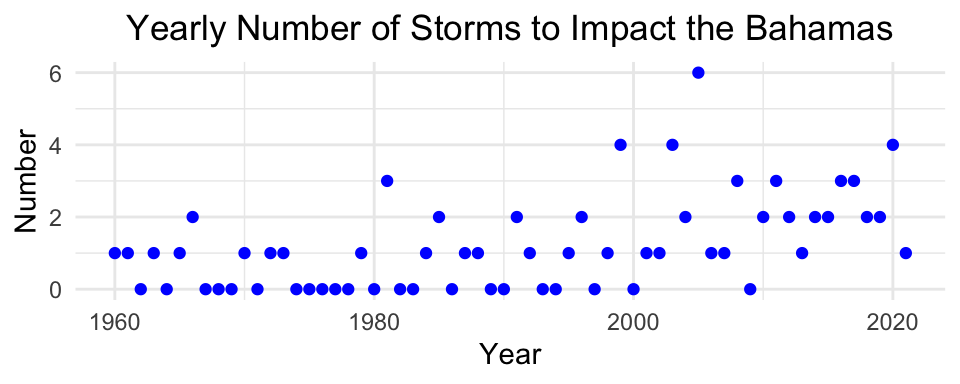
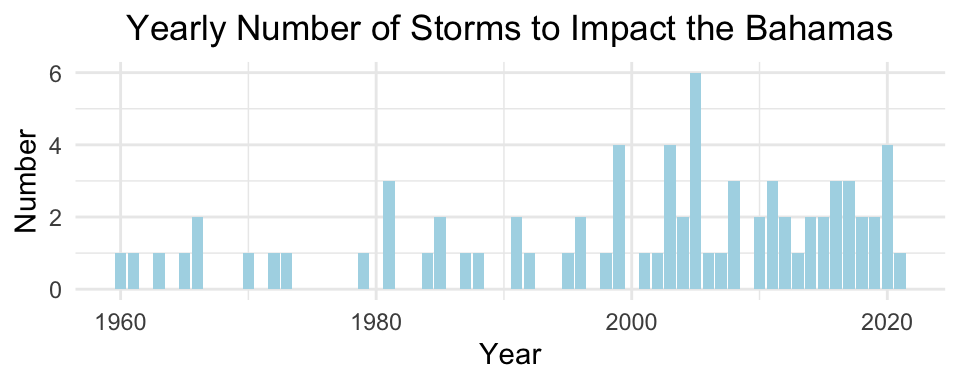
edited my graph

diff --git a/docs/posts/2021-11-24-hurricanes-and-gdp-growth-in-the-bahamas/index.html b/docs/posts/2021-11-24-hurricanes-and-gdp-growth-in-the-bahamas/index.html
@@ -89,7 +89,7 @@ code span.wa { color: #5e5e5e; font-style: italic; } /* Warning */
   <!--radix_placeholder_meta_tags-->
 <title>Paloma Cartwright: Hurricanes and GDP Growth in The Bahamas</title>
 
-<meta property="description" itemprop="description" content="EDS 222 Final Project: Exploring the statistical relationship between Hurricanes and the Annual Percentage of   GDP Growth in The Bahamas."/>
+<meta property="description" itemprop="description" content="EDS 222 Final Project: Exploring the statistical relationship between Hurricanes and the Annual Percentage of GDP Growth in The Bahamas."/>
 
 <link rel="canonical" href="palomacartwright.github.io/posts/2021-11-24-hurricanes-and-gdp-growth-in-the-bahamas/"/>
 
@@ -101,7 +101,7 @@ code span.wa { color: #5e5e5e; font-style: italic; } /* Warning */
 <!--  https://developers.facebook.com/docs/sharing/webmasters#markup -->
 <meta property="og:title" content="Paloma Cartwright: Hurricanes and GDP Growth in The Bahamas"/>
 <meta property="og:type" content="article"/>
-<meta property="og:description" content="EDS 222 Final Project: Exploring the statistical relationship between Hurricanes and the Annual Percentage of   GDP Growth in The Bahamas."/>
+<meta property="og:description" content="EDS 222 Final Project: Exploring the statistical relationship between Hurricanes and the Annual Percentage of GDP Growth in The Bahamas."/>
 <meta property="og:url" content="palomacartwright.github.io/posts/2021-11-24-hurricanes-and-gdp-growth-in-the-bahamas/"/>
 <meta property="og:image" content="palomacartwright.github.io/posts/2021-11-24-hurricanes-and-gdp-growth-in-the-bahamas/hurricanes-and-gdp-growth-in-the-bahamas_files/figure-html5/unnamed-chunk-2-1.png"/>
 <meta property="og:image:width" content="960"/>
@@ -112,7 +112,7 @@ code span.wa { color: #5e5e5e; font-style: italic; } /* Warning */
 <!--  https://dev.twitter.com/cards/types/summary -->
 <meta property="twitter:card" content="summary_large_image"/>
 <meta property="twitter:title" content="Paloma Cartwright: Hurricanes and GDP Growth in The Bahamas"/>
-<meta property="twitter:description" content="EDS 222 Final Project: Exploring the statistical relationship between Hurricanes and the Annual Percentage of   GDP Growth in The Bahamas."/>
+<meta property="twitter:description" content="EDS 222 Final Project: Exploring the statistical relationship between Hurricanes and the Annual Percentage of GDP Growth in The Bahamas."/>
 <meta property="twitter:url" content="palomacartwright.github.io/posts/2021-11-24-hurricanes-and-gdp-growth-in-the-bahamas/"/>
 <meta property="twitter:image" content="palomacartwright.github.io/posts/2021-11-24-hurricanes-and-gdp-growth-in-the-bahamas/hurricanes-and-gdp-growth-in-the-bahamas_files/figure-html5/unnamed-chunk-2-1.png"/>
 <meta property="twitter:image:width" content="960"/>
@@ -128,12 +128,12 @@ code span.wa { color: #5e5e5e; font-style: italic; } /* Warning */
   <!--radix_placeholder_rmarkdown_metadata-->
 
 <script type="text/json" id="radix-rmarkdown-metadata">
-{"type":"list","attributes":{"names":{"type":"character","attributes":{},"value":["title","author","date","output","header-includes","categories","description","citation_url","canonical_url"]}},"value":[{"type":"character","attributes":{},"value":["Hurricanes and GDP Growth in The Bahamas"]},{"type":"list","attributes":{},"value":[{"type":"list","attributes":{"names":{"type":"character","attributes":{},"value":["name"]}},"value":[{"type":"character","attributes":{},"value":["Paloma Cartwright"]}]}]},{"type":"character","attributes":{},"value":["2021-12-2"]},{"type":"list","attributes":{"names":{"type":"character","attributes":{},"value":["distill::distill_article","html_document","pdf_document"]}},"value":[{"type":"list","attributes":{"names":{"type":"character","attributes":{},"value":["toc","code_folding","self_contained"]}},"value":[{"type":"logical","attributes":{},"value":[true]},{"type":"logical","attributes":{},"value":[true]},{"type":"logical","attributes":{},"value":[false]}]},{"type":"list","attributes":{"names":{"type":"character","attributes":{},"value":["toc","df_print"]}},"value":[{"type":"logical","attributes":{},"value":[true]},{"type":"character","attributes":{},"value":["paged"]}]},{"type":"list","attributes":{"names":{"type":"character","attributes":{},"value":["fig_caption"]}},"value":[{"type":"logical","attributes":{},"value":[true]}]}]},{"type":"character","attributes":{},"value":["\\usepackage{float} \\floatplacement{figure}{H}"]},{"type":"character","attributes":{},"value":["R","statistics","tidyverse","kable"]},{"type":"character","attributes":{},"value":["EDS 222 Final Project: Exploring the statistical relationship between Hurricanes and the Annual Percentage of   GDP Growth in The Bahamas."]},{"type":"character","attributes":{},"value":["palomacartwright.github.io/posts/2021-11-24-hurricanes-and-gdp-growth-in-the-bahamas/"]},{"type":"character","attributes":{},"value":["palomacartwright.github.io/posts/2021-11-24-hurricanes-and-gdp-growth-in-the-bahamas/"]}]}
+{"type":"list","attributes":{"names":{"type":"character","attributes":{},"value":["title","author","date","output","header-includes","categories","description","citation_url","canonical_url"]}},"value":[{"type":"character","attributes":{},"value":["Hurricanes and GDP Growth in The Bahamas"]},{"type":"list","attributes":{},"value":[{"type":"list","attributes":{"names":{"type":"character","attributes":{},"value":["name"]}},"value":[{"type":"character","attributes":{},"value":["Paloma Cartwright"]}]}]},{"type":"character","attributes":{},"value":["2021-12-2"]},{"type":"list","attributes":{"names":{"type":"character","attributes":{},"value":["distill::distill_article","html_document","pdf_document"]}},"value":[{"type":"list","attributes":{"names":{"type":"character","attributes":{},"value":["toc","code_folding","self_contained"]}},"value":[{"type":"logical","attributes":{},"value":[true]},{"type":"logical","attributes":{},"value":[true]},{"type":"logical","attributes":{},"value":[false]}]},{"type":"list","attributes":{"names":{"type":"character","attributes":{},"value":["toc","df_print"]}},"value":[{"type":"logical","attributes":{},"value":[true]},{"type":"character","attributes":{},"value":["paged"]}]},{"type":"list","attributes":{"names":{"type":"character","attributes":{},"value":["fig_caption"]}},"value":[{"type":"logical","attributes":{},"value":[true]}]}]},{"type":"character","attributes":{},"value":["\\usepackage{float} \\floatplacement{figure}{H}"]},{"type":"character","attributes":{},"value":["R","statistics","tidyverse","kable"]},{"type":"character","attributes":{},"value":["EDS 222 Final Project: Exploring the statistical relationship between Hurricanes and the Annual Percentage of GDP Growth in The Bahamas."]},{"type":"character","attributes":{},"value":["palomacartwright.github.io/posts/2021-11-24-hurricanes-and-gdp-growth-in-the-bahamas/"]},{"type":"character","attributes":{},"value":["palomacartwright.github.io/posts/2021-11-24-hurricanes-and-gdp-growth-in-the-bahamas/"]}]}
 </script>
 <!--/radix_placeholder_rmarkdown_metadata-->
   
   <script type="text/json" id="radix-resource-manifest">
-  {"type":"character","attributes":{},"value":["descriptive.tex","final_proj_data/API_NY.GDP.MKTP.CD_DS2_en_csv_v2_3263806.zip","final_proj_data/API_NY.GDP.MKTP.CD_DS2_en_csv_v2_3263806/API_NY.GDP.MKTP.CD_DS2_en_csv_v2_3263806.csv","final_proj_data/API_NY.GDP.MKTP.CD_DS2_en_csv_v2_3263806/Metadata_Country_API_NY.GDP.MKTP.CD_DS2_en_csv_v2_3263806.csv","final_proj_data/API_NY.GDP.MKTP.CD_DS2_en_csv_v2_3263806/Metadata_Indicator_API_NY.GDP.MKTP.CD_DS2_en_csv_v2_3263806.csv","final_proj_data/API_NY.GDP.MKTP.KD.ZG_DS2_en_csv_v2_3158928.zip","final_proj_data/API_NY.GDP.MKTP.KD.ZG_DS2_en_csv_v2_3158928/API_NY.GDP.MKTP.KD.ZG_DS2_en_csv_v2_3158928.csv","final_proj_data/API_NY.GDP.MKTP.KD.ZG_DS2_en_csv_v2_3158928/Metadata_Country_API_NY.GDP.MKTP.KD.ZG_DS2_en_csv_v2_3158928.csv","final_proj_data/API_NY.GDP.MKTP.KD.ZG_DS2_en_csv_v2_3158928/Metadata_Indicator_API_NY.GDP.MKTP.KD.ZG_DS2_en_csv_v2_3158928.csv","final_proj_data/bah_yearly_gdp_growth.csv","final_proj_data/Bah_yearly_gdp.csv","final_proj_data/bahamas_hurricanes.csv","hurricanes-and-gdp-growth-in-the-bahamas_files/anchor-4.2.2/anchor.min.js","hurricanes-and-gdp-growth-in-the-bahamas_files/bowser-1.9.3/bowser.min.js","hurricanes-and-gdp-growth-in-the-bahamas_files/crosstalk-1.1.1/css/crosstalk.css","hurricanes-and-gdp-growth-in-the-bahamas_files/crosstalk-1.1.1/js/crosstalk.js","hurricanes-and-gdp-growth-in-the-bahamas_files/crosstalk-1.1.1/js/crosstalk.js.map","hurricanes-and-gdp-growth-in-the-bahamas_files/crosstalk-1.1.1/js/crosstalk.min.js","hurricanes-and-gdp-growth-in-the-bahamas_files/crosstalk-1.1.1/js/crosstalk.min.js.map","hurricanes-and-gdp-growth-in-the-bahamas_files/distill-2.2.21/template.v2.js","hurricanes-and-gdp-growth-in-the-bahamas_files/figure-html5/unnamed-chunk-2-1.png","hurricanes-and-gdp-growth-in-the-bahamas_files/figure-html5/unnamed-chunk-3-1.png","hurricanes-and-gdp-growth-in-the-bahamas_files/figure-html5/unnamed-chunk-5-1.png","hurricanes-and-gdp-growth-in-the-bahamas_files/figure-html5/unnamed-chunk-6-1.png","hurricanes-and-gdp-growth-in-the-bahamas_files/figure-html5/unnamed-chunk-7-1.png","hurricanes-and-gdp-growth-in-the-bahamas_files/figure-html5/unnamed-chunk-8-1.png","hurricanes-and-gdp-growth-in-the-bahamas_files/header-attrs-2.11/header-attrs.js","hurricanes-and-gdp-growth-in-the-bahamas_files/htmlwidgets-1.5.4/htmlwidgets.js","hurricanes-and-gdp-growth-in-the-bahamas_files/jquery-3.6.0/jquery-3.6.0.js","hurricanes-and-gdp-growth-in-the-bahamas_files/jquery-3.6.0/jquery-3.6.0.min.js","hurricanes-and-gdp-growth-in-the-bahamas_files/jquery-3.6.0/jquery-3.6.0.min.map","hurricanes-and-gdp-growth-in-the-bahamas_files/kePrint-0.0.1/kePrint.js","hurricanes-and-gdp-growth-in-the-bahamas_files/lightable-0.0.1/lightable.css","hurricanes-and-gdp-growth-in-the-bahamas_files/plotly-binding-4.10.0/plotly.js","hurricanes-and-gdp-growth-in-the-bahamas_files/plotly-htmlwidgets-css-2.5.1/plotly-htmlwidgets.css","hurricanes-and-gdp-growth-in-the-bahamas_files/plotly-main-2.5.1/plotly-latest.min.js","hurricanes-and-gdp-growth-in-the-bahamas_files/popper-2.6.0/popper.min.js","hurricanes-and-gdp-growth-in-the-bahamas_files/tippy-6.2.7/tippy-bundle.umd.min.js","hurricanes-and-gdp-growth-in-the-bahamas_files/tippy-6.2.7/tippy-light-border.css","hurricanes-and-gdp-growth-in-the-bahamas_files/tippy-6.2.7/tippy.css","hurricanes-and-gdp-growth-in-the-bahamas_files/tippy-6.2.7/tippy.umd.min.js","hurricanes-and-gdp-growth-in-the-bahamas_files/typedarray-0.1/typedarray.min.js","hurricanes-and-gdp-growth-in-the-bahamas_files/webcomponents-2.0.0/webcomponents.js","hurricanes-and-gdp-growth-in-the-bahamas.pdf"]}
+  {"type":"character","attributes":{},"value":["descriptive.tex","final_proj_data/API_NY.GDP.MKTP.CD_DS2_en_csv_v2_3263806.zip","final_proj_data/API_NY.GDP.MKTP.CD_DS2_en_csv_v2_3263806/API_NY.GDP.MKTP.CD_DS2_en_csv_v2_3263806.csv","final_proj_data/API_NY.GDP.MKTP.CD_DS2_en_csv_v2_3263806/Metadata_Country_API_NY.GDP.MKTP.CD_DS2_en_csv_v2_3263806.csv","final_proj_data/API_NY.GDP.MKTP.CD_DS2_en_csv_v2_3263806/Metadata_Indicator_API_NY.GDP.MKTP.CD_DS2_en_csv_v2_3263806.csv","final_proj_data/API_NY.GDP.MKTP.KD.ZG_DS2_en_csv_v2_3158928.zip","final_proj_data/API_NY.GDP.MKTP.KD.ZG_DS2_en_csv_v2_3158928/API_NY.GDP.MKTP.KD.ZG_DS2_en_csv_v2_3158928.csv","final_proj_data/API_NY.GDP.MKTP.KD.ZG_DS2_en_csv_v2_3158928/Metadata_Country_API_NY.GDP.MKTP.KD.ZG_DS2_en_csv_v2_3158928.csv","final_proj_data/API_NY.GDP.MKTP.KD.ZG_DS2_en_csv_v2_3158928/Metadata_Indicator_API_NY.GDP.MKTP.KD.ZG_DS2_en_csv_v2_3158928.csv","final_proj_data/bah_yearly_gdp_growth.csv","final_proj_data/Bah_yearly_gdp.csv","final_proj_data/bahamas_hurricanes.csv","hurricanes-and-gdp-growth-in-the-bahamas_files/anchor-4.2.2/anchor.min.js","hurricanes-and-gdp-growth-in-the-bahamas_files/bowser-1.9.3/bowser.min.js","hurricanes-and-gdp-growth-in-the-bahamas_files/crosstalk-1.1.1/css/crosstalk.css","hurricanes-and-gdp-growth-in-the-bahamas_files/crosstalk-1.1.1/js/crosstalk.js","hurricanes-and-gdp-growth-in-the-bahamas_files/crosstalk-1.1.1/js/crosstalk.js.map","hurricanes-and-gdp-growth-in-the-bahamas_files/crosstalk-1.1.1/js/crosstalk.min.js","hurricanes-and-gdp-growth-in-the-bahamas_files/crosstalk-1.1.1/js/crosstalk.min.js.map","hurricanes-and-gdp-growth-in-the-bahamas_files/distill-2.2.21/template.v2.js","hurricanes-and-gdp-growth-in-the-bahamas_files/figure-html5/unnamed-chunk-2-1.png","hurricanes-and-gdp-growth-in-the-bahamas_files/figure-html5/unnamed-chunk-3-1.png","hurricanes-and-gdp-growth-in-the-bahamas_files/figure-html5/unnamed-chunk-5-1.png","hurricanes-and-gdp-growth-in-the-bahamas_files/figure-html5/unnamed-chunk-6-1.png","hurricanes-and-gdp-growth-in-the-bahamas_files/figure-html5/unnamed-chunk-7-1.png","hurricanes-and-gdp-growth-in-the-bahamas_files/figure-html5/unnamed-chunk-8-1.png","hurricanes-and-gdp-growth-in-the-bahamas_files/header-attrs-2.11/header-attrs.js","hurricanes-and-gdp-growth-in-the-bahamas_files/htmlwidgets-1.5.4/htmlwidgets.js","hurricanes-and-gdp-growth-in-the-bahamas_files/jquery-3.6.0/jquery-3.6.0.js","hurricanes-and-gdp-growth-in-the-bahamas_files/jquery-3.6.0/jquery-3.6.0.min.js","hurricanes-and-gdp-growth-in-the-bahamas_files/jquery-3.6.0/jquery-3.6.0.min.map","hurricanes-and-gdp-growth-in-the-bahamas_files/kePrint-0.0.1/kePrint.js","hurricanes-and-gdp-growth-in-the-bahamas_files/lightable-0.0.1/lightable.css","hurricanes-and-gdp-growth-in-the-bahamas_files/plotly-binding-4.10.0/plotly.js","hurricanes-and-gdp-growth-in-the-bahamas_files/plotly-htmlwidgets-css-2.5.1/plotly-htmlwidgets.css","hurricanes-and-gdp-growth-in-the-bahamas_files/plotly-main-2.5.1/plotly-latest.min.js","hurricanes-and-gdp-growth-in-the-bahamas_files/popper-2.6.0/popper.min.js","hurricanes-and-gdp-growth-in-the-bahamas_files/tippy-6.2.7/tippy-bundle.umd.min.js","hurricanes-and-gdp-growth-in-the-bahamas_files/tippy-6.2.7/tippy-light-border.css","hurricanes-and-gdp-growth-in-the-bahamas_files/tippy-6.2.7/tippy.css","hurricanes-and-gdp-growth-in-the-bahamas_files/tippy-6.2.7/tippy.umd.min.js","hurricanes-and-gdp-growth-in-the-bahamas_files/typedarray-0.1/typedarray.min.js","hurricanes-and-gdp-growth-in-the-bahamas_files/webcomponents-2.0.0/webcomponents.js","hurricanes-and-gdp-growth-in-the-bahamas.pdf","yearly_storms.jpg"]}
   </script>
   <!--radix_placeholder_navigation_in_header-->
 <meta name="distill:offset" content="../.."/>
@@ -2456,7 +2456,7 @@ d-appendix d-footnote-list a.footnote-backlink {
 <!--radix_placeholder_front_matter-->
 
 <script id="distill-front-matter" type="text/json">
-{"title":"Hurricanes and GDP Growth in The Bahamas","description":"EDS 222 Final Project: Exploring the statistical relationship between Hurricanes and the Annual Percentage of   GDP Growth in The Bahamas.","authors":[{"author":"Paloma Cartwright","authorURL":"#","affiliation":"&nbsp;","affiliationURL":"#","orcidID":""}],"publishedDate":"2021-12-02T00:00:00.000-08:00","citationText":"Cartwright, 2021"}
+{"title":"Hurricanes and GDP Growth in The Bahamas","description":"EDS 222 Final Project: Exploring the statistical relationship between Hurricanes and the Annual Percentage of GDP Growth in The Bahamas.","authors":[{"author":"Paloma Cartwright","authorURL":"#","affiliation":"&nbsp;","affiliationURL":"#","orcidID":""}],"publishedDate":"2021-12-02T00:00:00.000-08:00","citationText":"Cartwright, 2021"}
 </script>
 
 <!--/radix_placeholder_front_matter-->
@@ -2534,7 +2534,7 @@ d-appendix d-footnote-list a.footnote-backlink {
 <p>The aim of this project is to investigate the impact of hurricanes on the annual percentage of GDP growth in The Bahamas. Growing up in The Bahamas, I have witnessed first hand the devastating impacts of hurricanes on livelihoods throughout the country and have been an active participant in recovery efforts every time my island was struck. Natural disasters have massive economic costs and take a deep toll on growth prospects because reconstruction costs monopolize already scarce resources for health, education, and social spending, especially in developing countries (Ötker &amp; Srinivasan, 2018). There is existing research on the impact of hurricanes on GDP growth in the United States but this project will look specifically at The Bahamas. With the global changing climate and the continual impact of stronger hurricanes on Caribbean countries, answering this question can have important implications for the future of small island developing states like The Bahamas.</p>
 <h1 id="data-collection-and-tidying">Data Collection and Tidying</h1>
 <h2 id="gdp-growth-data">GDP Growth Data</h2>
-<p>The data for annual percentage of GDP Growth was collected from The World Bank Data Repository (World Bank, 2021). This data covers annual percentage of GDP growth from 1961 to present for The Bahamas. The metadata containing information about calculations and sampling strategy can be found <a href="https://databank.worldbank.org/reports.aspx?source=2&amp;type=metadata&amp;series=NY.GDP.MKTP.KD.ZG">here</a>.</p>
+<p>The data for annual percentage of GDP Growth was collected from The World Bank Open Data Repository (World Bank, 2021). This data covers annual percentage of GDP growth from 1961 to present for The Bahamas. The metadata containing information about calculations and sampling strategy can be found <a href="https://databank.worldbank.org/reports.aspx?source=2&amp;type=metadata&amp;series=NY.GDP.MKTP.KD.ZG">here</a>.</p>
 <div class="layout-chunk" data-layout="l-body">
 <details>
 <summary>
@@ -2599,7 +2599,7 @@ Show code
   <span class='fu'>arrange</span><span class='op'>(</span><span class='va'>year</span><span class='op'>)</span>
 
 <span class='va'>yearly</span> <span class='op'>&lt;-</span> <span class='fu'>ggplot</span><span class='op'>(</span>data <span class='op'>=</span> <span class='va'>yr_storms</span>, <span class='fu'>aes</span><span class='op'>(</span>x <span class='op'>=</span> <span class='va'>year</span>, y <span class='op'>=</span> <span class='va'>number</span><span class='op'>)</span><span class='op'>)</span> <span class='op'>+</span>
-  <span class='fu'>geom_point</span><span class='op'>(</span>color <span class='op'>=</span> <span class='st'>"blue"</span><span class='op'>)</span> <span class='op'>+</span> 
+  <span class='fu'>geom_col</span><span class='op'>(</span>fill <span class='op'>=</span> <span class='st'>"lightblue"</span><span class='op'>)</span> <span class='op'>+</span> 
   <span class='fu'>labs</span><span class='op'>(</span>x <span class='op'>=</span> <span class='st'>"Year"</span>, 
        y <span class='op'>=</span> <span class='st'>"Number"</span>, 
        title <span class='op'>=</span> <span class='st'>"Yearly Number of Storms to Impact the Bahamas"</span><span class='op'>)</span> <span class='op'>+</span>
@@ -2616,6 +2616,15 @@ Show code
 Figure 2: The yearly number of storms to impact The Bahamas from 1960-2020 has fluctuated between 0 and 6 storms.
 </p>
 </div>
+<details>
+<summary>
+Show code
+</summary>
+<div class="sourceCode">
+<pre class="sourceCode r"><code class="sourceCode r"><span class='fu'>ggsave</span><span class='op'>(</span><span class='st'>"yearly_storms.jpg"</span>, width <span class='op'>=</span> <span class='fl'>6</span>, height <span class='op'>=</span> <span class='fl'>4</span><span class='op'>)</span>
+</code></pre>
+</div>
+</details>
 </div>
 <div class="layout-chunk" data-layout="l-body">
 <details>
@@ -2757,7 +2766,7 @@ Show code
 <pre class="sourceCode r"><code class="sourceCode r"><span class='va'>gdp</span> <span class='op'>&lt;-</span> <span class='fu'><a href='https://rdrr.io/r/stats/ts.html'>ts</a></span><span class='op'>(</span><span class='va'>hgdp</span><span class='op'>$</span><span class='va'>gdp_growth</span>, start<span class='op'>=</span><span class='fl'>1960</span><span class='op'>)</span>
 <span class='va'>yr0</span><span class='op'>&lt;-</span><span class='fu'><a href='https://rdrr.io/r/stats/ts.html'>ts</a></span><span class='op'>(</span><span class='va'>hgdp</span><span class='op'>$</span><span class='va'>num_yr0</span>,start<span class='op'>=</span><span class='fl'>1960</span><span class='op'>)</span>
 
-<span class='va'>year_lag_mod</span> <span class='op'>&lt;-</span> <span class='fu'><a href='https://rdrr.io/pkg/dynlm/man/dynlm.html'>dynlm</a></span><span class='op'>(</span><span class='va'>gdp</span> <span class='op'>~</span> <span class='fu'>L</span><span class='op'>(</span><span class='va'>yr0</span>, <span class='fl'>0</span><span class='op'>:</span><span class='fl'>2</span><span class='op'>)</span><span class='op'>)</span>
+<span class='va'>year_lag_mod</span> <span class='op'>&lt;-</span> <span class='fu'><a href='https://rdrr.io/pkg/dynlm/man/dynlm.html'>dynlm</a></span><span class='op'>(</span><span class='va'>gdp</span> <span class='op'>~</span> <span class='fu'>L</span><span class='op'>(</span><span class='va'>yr0</span>, <span class='fl'>0</span><span class='op'>)</span> <span class='op'>+</span> <span class='fu'>L</span><span class='op'>(</span><span class='va'>yr0</span>, <span class='fl'>1</span><span class='op'>)</span> <span class='op'>+</span> <span class='fu'>L</span><span class='op'>(</span><span class='va'>yr0</span>, <span class='fl'>2</span><span class='op'>)</span><span class='op'>)</span>
 <span class='va'>year_lag_mod</span> <span class='op'>%&gt;%</span>
   <span class='fu'><a href='https://rdrr.io/r/base/summary.html'>summary</a></span><span class='op'>(</span><span class='op'>)</span> <span class='op'>%&gt;%</span> 
   <span class='fu'><a href='https://rdrr.io/pkg/xtable/man/xtable.html'>xtable</a></span><span class='op'>(</span><span class='op'>)</span> <span class='op'>%&gt;%</span> 
@@ -2809,7 +2818,7 @@ Pr(&gt;|t|)
 </tr>
 <tr>
 <td style="text-align:left;">
-L(yr0, 0:2)zoo(coredata(x), tt).1
+L(yr0, 0)
 </td>
 <td style="text-align:right;">
 -0.724
@@ -2826,7 +2835,7 @@ L(yr0, 0:2)zoo(coredata(x), tt).1
 </tr>
 <tr>
 <td style="text-align:left;">
-L(yr0, 0:2)zoo(coredata(x), tt).2
+L(yr0, 1)
 </td>
 <td style="text-align:right;">
 -0.285
@@ -2843,7 +2852,7 @@ L(yr0, 0:2)zoo(coredata(x), tt).2
 </tr>
 <tr>
 <td style="text-align:left;">
-L(yr0, 0:2)zoo(coredata(x), tt).3
+L(yr0, 2)
 </td>
 <td style="text-align:right;">
 -1.075

diff --git a/_posts/2021-11-24-hurricanes-and-gdp-growth-in-the-bahamas/hurricanes-and-gdp-growth-in-the-bahamas.html b/_posts/2021-11-24-hurricanes-and-gdp-growth-in-the-bahamas/hurricanes-and-gdp-growth-in-the-bahamas.html
@@ -89,7 +89,7 @@ code span.wa { color: #5e5e5e; font-style: italic; } /* Warning */
   <!--radix_placeholder_meta_tags-->
   <title>Hurricanes and GDP Growth in The Bahamas</title>
 
-  <meta property="description" itemprop="description" content="EDS 222 Final Project: Exploring the statistical relationship between Hurricanes and the Annual Percentage of   GDP Growth in The Bahamas."/>
+  <meta property="description" itemprop="description" content="EDS 222 Final Project: Exploring the statistical relationship between Hurricanes and the Annual Percentage of GDP Growth in The Bahamas."/>
 
 
   <!--  https://schema.org/Article -->
@@ -100,24 +100,24 @@ code span.wa { color: #5e5e5e; font-style: italic; } /* Warning */
   <!--  https://developers.facebook.com/docs/sharing/webmasters#markup -->
   <meta property="og:title" content="Hurricanes and GDP Growth in The Bahamas"/>
   <meta property="og:type" content="article"/>
-  <meta property="og:description" content="EDS 222 Final Project: Exploring the statistical relationship between Hurricanes and the Annual Percentage of   GDP Growth in The Bahamas."/>
+  <meta property="og:description" content="EDS 222 Final Project: Exploring the statistical relationship between Hurricanes and the Annual Percentage of GDP Growth in The Bahamas."/>
   <meta property="og:locale" content="en_US"/>
 
   <!--  https://dev.twitter.com/cards/types/summary -->
   <meta property="twitter:card" content="summary"/>
   <meta property="twitter:title" content="Hurricanes and GDP Growth in The Bahamas"/>
-  <meta property="twitter:description" content="EDS 222 Final Project: Exploring the statistical relationship between Hurricanes and the Annual Percentage of   GDP Growth in The Bahamas."/>
+  <meta property="twitter:description" content="EDS 222 Final Project: Exploring the statistical relationship between Hurricanes and the Annual Percentage of GDP Growth in The Bahamas."/>
 
   <!--/radix_placeholder_meta_tags-->
   <!--radix_placeholder_rmarkdown_metadata-->
 
   <script type="text/json" id="radix-rmarkdown-metadata">
-  {"type":"list","attributes":{"names":{"type":"character","attributes":{},"value":["title","author","date","output","header-includes","categories","description"]}},"value":[{"type":"character","attributes":{},"value":["Hurricanes and GDP Growth in The Bahamas"]},{"type":"list","attributes":{},"value":[{"type":"list","attributes":{"names":{"type":"character","attributes":{},"value":["name"]}},"value":[{"type":"character","attributes":{},"value":["Paloma Cartwright"]}]}]},{"type":"character","attributes":{},"value":["2021-12-2"]},{"type":"list","attributes":{"names":{"type":"character","attributes":{},"value":["distill::distill_article","html_document","pdf_document"]}},"value":[{"type":"list","attributes":{"names":{"type":"character","attributes":{},"value":["toc","code_folding","self_contained"]}},"value":[{"type":"logical","attributes":{},"value":[true]},{"type":"logical","attributes":{},"value":[true]},{"type":"logical","attributes":{},"value":[false]}]},{"type":"list","attributes":{"names":{"type":"character","attributes":{},"value":["toc","df_print"]}},"value":[{"type":"logical","attributes":{},"value":[true]},{"type":"character","attributes":{},"value":["paged"]}]},{"type":"list","attributes":{"names":{"type":"character","attributes":{},"value":["fig_caption"]}},"value":[{"type":"logical","attributes":{},"value":[true]}]}]},{"type":"character","attributes":{},"value":["\\usepackage{float} \\floatplacement{figure}{H}"]},{"type":"character","attributes":{},"value":["R","statistics","tidyverse","kable"]},{"type":"character","attributes":{},"value":["EDS 222 Final Project: Exploring the statistical relationship between Hurricanes and the Annual Percentage of   GDP Growth in The Bahamas."]}]}
+  {"type":"list","attributes":{"names":{"type":"character","attributes":{},"value":["title","author","date","output","header-includes","categories","description"]}},"value":[{"type":"character","attributes":{},"value":["Hurricanes and GDP Growth in The Bahamas"]},{"type":"list","attributes":{},"value":[{"type":"list","attributes":{"names":{"type":"character","attributes":{},"value":["name"]}},"value":[{"type":"character","attributes":{},"value":["Paloma Cartwright"]}]}]},{"type":"character","attributes":{},"value":["2021-12-2"]},{"type":"list","attributes":{"names":{"type":"character","attributes":{},"value":["distill::distill_article","html_document","pdf_document"]}},"value":[{"type":"list","attributes":{"names":{"type":"character","attributes":{},"value":["toc","code_folding","self_contained"]}},"value":[{"type":"logical","attributes":{},"value":[true]},{"type":"logical","attributes":{},"value":[true]},{"type":"logical","attributes":{},"value":[false]}]},{"type":"list","attributes":{"names":{"type":"character","attributes":{},"value":["toc","df_print"]}},"value":[{"type":"logical","attributes":{},"value":[true]},{"type":"character","attributes":{},"value":["paged"]}]},{"type":"list","attributes":{"names":{"type":"character","attributes":{},"value":["fig_caption"]}},"value":[{"type":"logical","attributes":{},"value":[true]}]}]},{"type":"character","attributes":{},"value":["\\usepackage{float} \\floatplacement{figure}{H}"]},{"type":"character","attributes":{},"value":["R","statistics","tidyverse","kable"]},{"type":"character","attributes":{},"value":["EDS 222 Final Project: Exploring the statistical relationship between Hurricanes and the Annual Percentage of GDP Growth in The Bahamas."]}]}
   </script>
   <!--/radix_placeholder_rmarkdown_metadata-->
   
   <script type="text/json" id="radix-resource-manifest">
-  {"type":"character","attributes":{},"value":["descriptive.tex","final_proj_data/API_NY.GDP.MKTP.CD_DS2_en_csv_v2_3263806.zip","final_proj_data/API_NY.GDP.MKTP.CD_DS2_en_csv_v2_3263806/API_NY.GDP.MKTP.CD_DS2_en_csv_v2_3263806.csv","final_proj_data/API_NY.GDP.MKTP.CD_DS2_en_csv_v2_3263806/Metadata_Country_API_NY.GDP.MKTP.CD_DS2_en_csv_v2_3263806.csv","final_proj_data/API_NY.GDP.MKTP.CD_DS2_en_csv_v2_3263806/Metadata_Indicator_API_NY.GDP.MKTP.CD_DS2_en_csv_v2_3263806.csv","final_proj_data/API_NY.GDP.MKTP.KD.ZG_DS2_en_csv_v2_3158928.zip","final_proj_data/API_NY.GDP.MKTP.KD.ZG_DS2_en_csv_v2_3158928/API_NY.GDP.MKTP.KD.ZG_DS2_en_csv_v2_3158928.csv","final_proj_data/API_NY.GDP.MKTP.KD.ZG_DS2_en_csv_v2_3158928/Metadata_Country_API_NY.GDP.MKTP.KD.ZG_DS2_en_csv_v2_3158928.csv","final_proj_data/API_NY.GDP.MKTP.KD.ZG_DS2_en_csv_v2_3158928/Metadata_Indicator_API_NY.GDP.MKTP.KD.ZG_DS2_en_csv_v2_3158928.csv","final_proj_data/bah_yearly_gdp_growth.csv","final_proj_data/Bah_yearly_gdp.csv","final_proj_data/bahamas_hurricanes.csv","hurricanes-and-gdp-growth-in-the-bahamas_files/anchor-4.2.2/anchor.min.js","hurricanes-and-gdp-growth-in-the-bahamas_files/bowser-1.9.3/bowser.min.js","hurricanes-and-gdp-growth-in-the-bahamas_files/crosstalk-1.1.1/css/crosstalk.css","hurricanes-and-gdp-growth-in-the-bahamas_files/crosstalk-1.1.1/js/crosstalk.js","hurricanes-and-gdp-growth-in-the-bahamas_files/crosstalk-1.1.1/js/crosstalk.js.map","hurricanes-and-gdp-growth-in-the-bahamas_files/crosstalk-1.1.1/js/crosstalk.min.js","hurricanes-and-gdp-growth-in-the-bahamas_files/crosstalk-1.1.1/js/crosstalk.min.js.map","hurricanes-and-gdp-growth-in-the-bahamas_files/distill-2.2.21/template.v2.js","hurricanes-and-gdp-growth-in-the-bahamas_files/figure-html5/unnamed-chunk-2-1.png","hurricanes-and-gdp-growth-in-the-bahamas_files/figure-html5/unnamed-chunk-3-1.png","hurricanes-and-gdp-growth-in-the-bahamas_files/figure-html5/unnamed-chunk-5-1.png","hurricanes-and-gdp-growth-in-the-bahamas_files/figure-html5/unnamed-chunk-6-1.png","hurricanes-and-gdp-growth-in-the-bahamas_files/figure-html5/unnamed-chunk-7-1.png","hurricanes-and-gdp-growth-in-the-bahamas_files/figure-html5/unnamed-chunk-8-1.png","hurricanes-and-gdp-growth-in-the-bahamas_files/header-attrs-2.11/header-attrs.js","hurricanes-and-gdp-growth-in-the-bahamas_files/htmlwidgets-1.5.4/htmlwidgets.js","hurricanes-and-gdp-growth-in-the-bahamas_files/jquery-3.6.0/jquery-3.6.0.js","hurricanes-and-gdp-growth-in-the-bahamas_files/jquery-3.6.0/jquery-3.6.0.min.js","hurricanes-and-gdp-growth-in-the-bahamas_files/jquery-3.6.0/jquery-3.6.0.min.map","hurricanes-and-gdp-growth-in-the-bahamas_files/kePrint-0.0.1/kePrint.js","hurricanes-and-gdp-growth-in-the-bahamas_files/lightable-0.0.1/lightable.css","hurricanes-and-gdp-growth-in-the-bahamas_files/plotly-binding-4.10.0/plotly.js","hurricanes-and-gdp-growth-in-the-bahamas_files/plotly-htmlwidgets-css-2.5.1/plotly-htmlwidgets.css","hurricanes-and-gdp-growth-in-the-bahamas_files/plotly-main-2.5.1/plotly-latest.min.js","hurricanes-and-gdp-growth-in-the-bahamas_files/popper-2.6.0/popper.min.js","hurricanes-and-gdp-growth-in-the-bahamas_files/tippy-6.2.7/tippy-bundle.umd.min.js","hurricanes-and-gdp-growth-in-the-bahamas_files/tippy-6.2.7/tippy-light-border.css","hurricanes-and-gdp-growth-in-the-bahamas_files/tippy-6.2.7/tippy.css","hurricanes-and-gdp-growth-in-the-bahamas_files/tippy-6.2.7/tippy.umd.min.js","hurricanes-and-gdp-growth-in-the-bahamas_files/typedarray-0.1/typedarray.min.js","hurricanes-and-gdp-growth-in-the-bahamas_files/webcomponents-2.0.0/webcomponents.js","hurricanes-and-gdp-growth-in-the-bahamas.pdf"]}
+  {"type":"character","attributes":{},"value":["descriptive.tex","final_proj_data/API_NY.GDP.MKTP.CD_DS2_en_csv_v2_3263806.zip","final_proj_data/API_NY.GDP.MKTP.CD_DS2_en_csv_v2_3263806/API_NY.GDP.MKTP.CD_DS2_en_csv_v2_3263806.csv","final_proj_data/API_NY.GDP.MKTP.CD_DS2_en_csv_v2_3263806/Metadata_Country_API_NY.GDP.MKTP.CD_DS2_en_csv_v2_3263806.csv","final_proj_data/API_NY.GDP.MKTP.CD_DS2_en_csv_v2_3263806/Metadata_Indicator_API_NY.GDP.MKTP.CD_DS2_en_csv_v2_3263806.csv","final_proj_data/API_NY.GDP.MKTP.KD.ZG_DS2_en_csv_v2_3158928.zip","final_proj_data/API_NY.GDP.MKTP.KD.ZG_DS2_en_csv_v2_3158928/API_NY.GDP.MKTP.KD.ZG_DS2_en_csv_v2_3158928.csv","final_proj_data/API_NY.GDP.MKTP.KD.ZG_DS2_en_csv_v2_3158928/Metadata_Country_API_NY.GDP.MKTP.KD.ZG_DS2_en_csv_v2_3158928.csv","final_proj_data/API_NY.GDP.MKTP.KD.ZG_DS2_en_csv_v2_3158928/Metadata_Indicator_API_NY.GDP.MKTP.KD.ZG_DS2_en_csv_v2_3158928.csv","final_proj_data/bah_yearly_gdp_growth.csv","final_proj_data/Bah_yearly_gdp.csv","final_proj_data/bahamas_hurricanes.csv","hurricanes-and-gdp-growth-in-the-bahamas_files/anchor-4.2.2/anchor.min.js","hurricanes-and-gdp-growth-in-the-bahamas_files/bowser-1.9.3/bowser.min.js","hurricanes-and-gdp-growth-in-the-bahamas_files/crosstalk-1.1.1/css/crosstalk.css","hurricanes-and-gdp-growth-in-the-bahamas_files/crosstalk-1.1.1/js/crosstalk.js","hurricanes-and-gdp-growth-in-the-bahamas_files/crosstalk-1.1.1/js/crosstalk.js.map","hurricanes-and-gdp-growth-in-the-bahamas_files/crosstalk-1.1.1/js/crosstalk.min.js","hurricanes-and-gdp-growth-in-the-bahamas_files/crosstalk-1.1.1/js/crosstalk.min.js.map","hurricanes-and-gdp-growth-in-the-bahamas_files/distill-2.2.21/template.v2.js","hurricanes-and-gdp-growth-in-the-bahamas_files/figure-html5/unnamed-chunk-2-1.png","hurricanes-and-gdp-growth-in-the-bahamas_files/figure-html5/unnamed-chunk-3-1.png","hurricanes-and-gdp-growth-in-the-bahamas_files/figure-html5/unnamed-chunk-5-1.png","hurricanes-and-gdp-growth-in-the-bahamas_files/figure-html5/unnamed-chunk-6-1.png","hurricanes-and-gdp-growth-in-the-bahamas_files/figure-html5/unnamed-chunk-7-1.png","hurricanes-and-gdp-growth-in-the-bahamas_files/figure-html5/unnamed-chunk-8-1.png","hurricanes-and-gdp-growth-in-the-bahamas_files/header-attrs-2.11/header-attrs.js","hurricanes-and-gdp-growth-in-the-bahamas_files/htmlwidgets-1.5.4/htmlwidgets.js","hurricanes-and-gdp-growth-in-the-bahamas_files/jquery-3.6.0/jquery-3.6.0.js","hurricanes-and-gdp-growth-in-the-bahamas_files/jquery-3.6.0/jquery-3.6.0.min.js","hurricanes-and-gdp-growth-in-the-bahamas_files/jquery-3.6.0/jquery-3.6.0.min.map","hurricanes-and-gdp-growth-in-the-bahamas_files/kePrint-0.0.1/kePrint.js","hurricanes-and-gdp-growth-in-the-bahamas_files/lightable-0.0.1/lightable.css","hurricanes-and-gdp-growth-in-the-bahamas_files/plotly-binding-4.10.0/plotly.js","hurricanes-and-gdp-growth-in-the-bahamas_files/plotly-htmlwidgets-css-2.5.1/plotly-htmlwidgets.css","hurricanes-and-gdp-growth-in-the-bahamas_files/plotly-main-2.5.1/plotly-latest.min.js","hurricanes-and-gdp-growth-in-the-bahamas_files/popper-2.6.0/popper.min.js","hurricanes-and-gdp-growth-in-the-bahamas_files/tippy-6.2.7/tippy-bundle.umd.min.js","hurricanes-and-gdp-growth-in-the-bahamas_files/tippy-6.2.7/tippy-light-border.css","hurricanes-and-gdp-growth-in-the-bahamas_files/tippy-6.2.7/tippy.css","hurricanes-and-gdp-growth-in-the-bahamas_files/tippy-6.2.7/tippy.umd.min.js","hurricanes-and-gdp-growth-in-the-bahamas_files/typedarray-0.1/typedarray.min.js","hurricanes-and-gdp-growth-in-the-bahamas_files/webcomponents-2.0.0/webcomponents.js","hurricanes-and-gdp-growth-in-the-bahamas.pdf","yearly_storms.jpg"]}
   </script>
   <!--radix_placeholder_navigation_in_header-->
   <!--/radix_placeholder_navigation_in_header-->
@@ -1461,7 +1461,7 @@ code span.wa { color: #5e5e5e; font-style: italic; } /* Warning */
 <!--radix_placeholder_front_matter-->
 
 <script id="distill-front-matter" type="text/json">
-{"title":"Hurricanes and GDP Growth in The Bahamas","description":"EDS 222 Final Project: Exploring the statistical relationship between Hurricanes and the Annual Percentage of   GDP Growth in The Bahamas.","authors":[{"author":"Paloma Cartwright","authorURL":"#","affiliation":"&nbsp;","affiliationURL":"#","orcidID":""}],"publishedDate":"2021-12-02T00:00:00.000-08:00","citationText":"Cartwright, 2021"}
+{"title":"Hurricanes and GDP Growth in The Bahamas","description":"EDS 222 Final Project: Exploring the statistical relationship between Hurricanes and the Annual Percentage of GDP Growth in The Bahamas.","authors":[{"author":"Paloma Cartwright","authorURL":"#","affiliation":"&nbsp;","affiliationURL":"#","orcidID":""}],"publishedDate":"2021-12-02T00:00:00.000-08:00","citationText":"Cartwright, 2021"}
 </script>
 
 <!--/radix_placeholder_front_matter-->
@@ -1521,7 +1521,7 @@ code span.wa { color: #5e5e5e; font-style: italic; } /* Warning */
 <p>The aim of this project is to investigate the impact of hurricanes on the annual percentage of GDP growth in The Bahamas. Growing up in The Bahamas, I have witnessed first hand the devastating impacts of hurricanes on livelihoods throughout the country and have been an active participant in recovery efforts every time my island was struck. Natural disasters have massive economic costs and take a deep toll on growth prospects because reconstruction costs monopolize already scarce resources for health, education, and social spending, especially in developing countries (Ötker &amp; Srinivasan, 2018). There is existing research on the impact of hurricanes on GDP growth in the United States but this project will look specifically at The Bahamas. With the global changing climate and the continual impact of stronger hurricanes on Caribbean countries, answering this question can have important implications for the future of small island developing states like The Bahamas.</p>
 <h1 id="data-collection-and-tidying">Data Collection and Tidying</h1>
 <h2 id="gdp-growth-data">GDP Growth Data</h2>
-<p>The data for annual percentage of GDP Growth was collected from The World Bank Data Repository (World Bank, 2021). This data covers annual percentage of GDP growth from 1961 to present for The Bahamas. The metadata containing information about calculations and sampling strategy can be found <a href="https://databank.worldbank.org/reports.aspx?source=2&amp;type=metadata&amp;series=NY.GDP.MKTP.KD.ZG">here</a>.</p>
+<p>The data for annual percentage of GDP Growth was collected from The World Bank Open Data Repository (World Bank, 2021). This data covers annual percentage of GDP growth from 1961 to present for The Bahamas. The metadata containing information about calculations and sampling strategy can be found <a href="https://databank.worldbank.org/reports.aspx?source=2&amp;type=metadata&amp;series=NY.GDP.MKTP.KD.ZG">here</a>.</p>
 <div class="layout-chunk" data-layout="l-body">
 <details>
 <summary>
@@ -1586,7 +1586,7 @@ Show code
   <span class='fu'>arrange</span><span class='op'>(</span><span class='va'>year</span><span class='op'>)</span>
 
 <span class='va'>yearly</span> <span class='op'>&lt;-</span> <span class='fu'>ggplot</span><span class='op'>(</span>data <span class='op'>=</span> <span class='va'>yr_storms</span>, <span class='fu'>aes</span><span class='op'>(</span>x <span class='op'>=</span> <span class='va'>year</span>, y <span class='op'>=</span> <span class='va'>number</span><span class='op'>)</span><span class='op'>)</span> <span class='op'>+</span>
-  <span class='fu'>geom_point</span><span class='op'>(</span>color <span class='op'>=</span> <span class='st'>"blue"</span><span class='op'>)</span> <span class='op'>+</span> 
+  <span class='fu'>geom_col</span><span class='op'>(</span>fill <span class='op'>=</span> <span class='st'>"lightblue"</span><span class='op'>)</span> <span class='op'>+</span> 
   <span class='fu'>labs</span><span class='op'>(</span>x <span class='op'>=</span> <span class='st'>"Year"</span>, 
        y <span class='op'>=</span> <span class='st'>"Number"</span>, 
        title <span class='op'>=</span> <span class='st'>"Yearly Number of Storms to Impact the Bahamas"</span><span class='op'>)</span> <span class='op'>+</span>
@@ -1603,6 +1603,15 @@ Show code
 Figure 2: The yearly number of storms to impact The Bahamas from 1960-2020 has fluctuated between 0 and 6 storms.
 </p>
 </div>
+<details>
+<summary>
+Show code
+</summary>
+<div class="sourceCode">
+<pre class="sourceCode r"><code class="sourceCode r"><span class='fu'>ggsave</span><span class='op'>(</span><span class='st'>"yearly_storms.jpg"</span>, width <span class='op'>=</span> <span class='fl'>6</span>, height <span class='op'>=</span> <span class='fl'>4</span><span class='op'>)</span>
+</code></pre>
+</div>
+</details>
 </div>
 <div class="layout-chunk" data-layout="l-body">
 <details>
@@ -1744,7 +1753,7 @@ Show code
 <pre class="sourceCode r"><code class="sourceCode r"><span class='va'>gdp</span> <span class='op'>&lt;-</span> <span class='fu'><a href='https://rdrr.io/r/stats/ts.html'>ts</a></span><span class='op'>(</span><span class='va'>hgdp</span><span class='op'>$</span><span class='va'>gdp_growth</span>, start<span class='op'>=</span><span class='fl'>1960</span><span class='op'>)</span>
 <span class='va'>yr0</span><span class='op'>&lt;-</span><span class='fu'><a href='https://rdrr.io/r/stats/ts.html'>ts</a></span><span class='op'>(</span><span class='va'>hgdp</span><span class='op'>$</span><span class='va'>num_yr0</span>,start<span class='op'>=</span><span class='fl'>1960</span><span class='op'>)</span>
 
-<span class='va'>year_lag_mod</span> <span class='op'>&lt;-</span> <span class='fu'><a href='https://rdrr.io/pkg/dynlm/man/dynlm.html'>dynlm</a></span><span class='op'>(</span><span class='va'>gdp</span> <span class='op'>~</span> <span class='fu'>L</span><span class='op'>(</span><span class='va'>yr0</span>, <span class='fl'>0</span><span class='op'>:</span><span class='fl'>2</span><span class='op'>)</span><span class='op'>)</span>
+<span class='va'>year_lag_mod</span> <span class='op'>&lt;-</span> <span class='fu'><a href='https://rdrr.io/pkg/dynlm/man/dynlm.html'>dynlm</a></span><span class='op'>(</span><span class='va'>gdp</span> <span class='op'>~</span> <span class='fu'>L</span><span class='op'>(</span><span class='va'>yr0</span>, <span class='fl'>0</span><span class='op'>)</span> <span class='op'>+</span> <span class='fu'>L</span><span class='op'>(</span><span class='va'>yr0</span>, <span class='fl'>1</span><span class='op'>)</span> <span class='op'>+</span> <span class='fu'>L</span><span class='op'>(</span><span class='va'>yr0</span>, <span class='fl'>2</span><span class='op'>)</span><span class='op'>)</span>
 <span class='va'>year_lag_mod</span> <span class='op'>%&gt;%</span>
   <span class='fu'><a href='https://rdrr.io/r/base/summary.html'>summary</a></span><span class='op'>(</span><span class='op'>)</span> <span class='op'>%&gt;%</span> 
   <span class='fu'><a href='https://rdrr.io/pkg/xtable/man/xtable.html'>xtable</a></span><span class='op'>(</span><span class='op'>)</span> <span class='op'>%&gt;%</span> 
@@ -1796,7 +1805,7 @@ Pr(&gt;|t|)
 </tr>
 <tr>
 <td style="text-align:left;">
-L(yr0, 0:2)zoo(coredata(x), tt).1
+L(yr0, 0)
 </td>
 <td style="text-align:right;">
 -0.724
@@ -1813,7 +1822,7 @@ L(yr0, 0:2)zoo(coredata(x), tt).1
 </tr>
 <tr>
 <td style="text-align:left;">
-L(yr0, 0:2)zoo(coredata(x), tt).2
+L(yr0, 1)
 </td>
 <td style="text-align:right;">
 -0.285
@@ -1830,7 +1839,7 @@ L(yr0, 0:2)zoo(coredata(x), tt).2
 </tr>
 <tr>
 <td style="text-align:left;">
-L(yr0, 0:2)zoo(coredata(x), tt).3
+L(yr0, 2)
 </td>
 <td style="text-align:right;">
 -1.075

diff --git a/docs/blog.html b/docs/blog.html
@@ -2609,7 +2609,7 @@ function init_posts_list() {
 <div class="dt-tag">tidyverse</div>
 <div class="dt-tag">kable</div>
 </div>
-<p>EDS 222 Final Project: Exploring the statistical relationship between Hurricanes and the Annual Percentage of   GDP Growth in The Bahamas.</p>
+<p>EDS 222 Final Project: Exploring the statistical relationship between Hurricanes and the Annual Percentage of GDP Growth in The Bahamas.</p>
 </div>
 </a>
 <a href="posts/2021-10-14-best-beaches/" class="post-preview">
